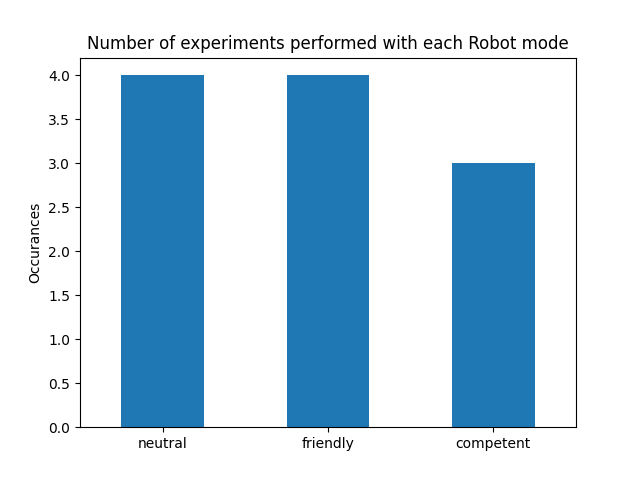
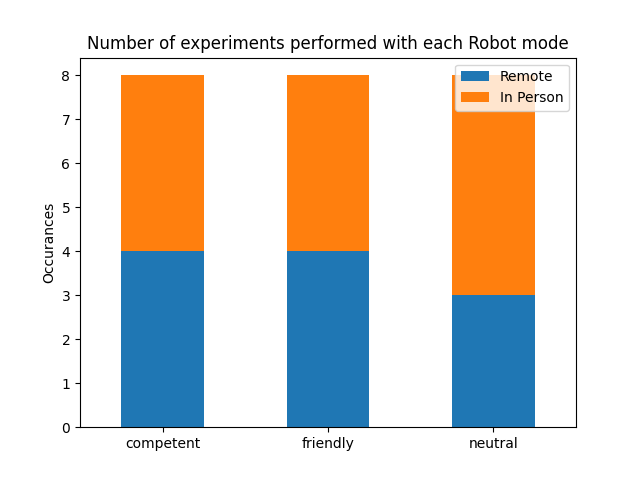
graphics done

diff --git a/PersuasionGame/results/process_results.py b/PersuasionGame/results/process_results.py
@@ -8,7 +8,7 @@ import matplotlib.patches as mpatches
 def get_data():
 
     results = {}
-    folder = "PersuasionGame/results/"
+    folder = "PersuasionGame/results/outputs/"
 
     for file in os.listdir(folder):
 
@@ -21,6 +21,7 @@ def get_data():
         for s in range(len(info)):
             fields = info[s].replace("\n","").split(": ")
 
+            if fields[0] == '' or fields[0] == ' ': continue
             if fields[1] == "null": break
 
             try:
@@ -35,7 +36,7 @@ def get_data():
 
     return results
 
-def plot_unhetical_decisions_per_mode(df):
+def plot_unhetical_decisions_per_mode(df, title:str):
 
     df2 = pd.DataFrame(dtype=int64)
     
@@ -51,8 +52,9 @@ def plot_unhetical_decisions_per_mode(df):
     df2 = df2.reindex(sorted(df2.columns, reverse=True), axis=1)
 
     fig = plt.figure()
+    fig.suptitle("Relation Between Unethical Decisions taken per Robot Mode")
     boxplot = df2.boxplot(grid=True, rot=0)
-    boxplot.set_title("Relation Between Unethical Decisions taken per Robot Mode")
+    boxplot.set_title(title)
     boxplot.set_ylabel("Number of Unethical Decisions")
 
     leg = []
@@ -64,29 +66,29 @@ def plot_unhetical_decisions_per_mode(df):
     boxplot.legend(handles=leg, loc=2)
     boxplot.get_legend().set_title("Average Number of\nUnethical Desicions")
 
-    fig.savefig('PersuasionGame/results/unethical_mode.png')
+    fig.savefig(f'PersuasionGame/results/unethical_mode_[{title.replace(" ","_").lower()}].png')
 
     breakpoint
 
 def plot_mode_distribution(df):
 
-    x_label = list(df['Robot mode'].unique())
-    y_label = list(df['Robot mode'].value_counts())
+    index = sorted(df['Robot mode'].unique(), reverse=False)
+    remote = list(df[df['Conditions']=="Virtual"]['Robot mode'].value_counts().sort_index(ascending=False))
+    in_person = list(df[df['Conditions']=="In Person"]['Robot mode'].value_counts().sort_index(ascending=False))
 
     df2 = pd.DataFrame(
-        {'Robot mode': x_label, 'Occurances': y_label}
+        {'Remote': remote, "In Person": in_person},
+        index = index
     )
-    df2.sort_values(by='Robot mode', inplace=True, ascending=False)
 
-    bar = df2.plot.bar(
-        x='Robot mode', 
-        y='Occurances', 
+    df2.plot.bar(
         rot=0, 
         xlabel="", 
         ylabel="Occurances", 
-        legend=False, 
-        title="Number of experiments performed with each Robot mode"
-        ).get_figure().savefig('PersuasionGame/results/occurrences_mode.png')
+        legend=True, 
+        stacked=True,
+        title="Number of experiments performed with each Robot mode" ,
+        ).get_figure().savefig(f'PersuasionGame/results/occurrences_mode.png')
 
     breakpoint
 
@@ -97,8 +99,11 @@ if __name__ == "__main__":
 
     df = pd.DataFrame.from_dict(data)
 
-    plot_unhetical_decisions_per_mode(df)
+    plot_unhetical_decisions_per_mode(df[df["Conditions"]=="In Person"], "(In Person Experiments)")
 
+    plot_unhetical_decisions_per_mode(df[df["Conditions"]=="Virtual"], "(Remote Experiments)")
+
+    plot_unhetical_decisions_per_mode(df, "(All Experiments)")
     plot_mode_distribution(df)
 
     print(f'Number of experiments performed: {len(df)}.')
